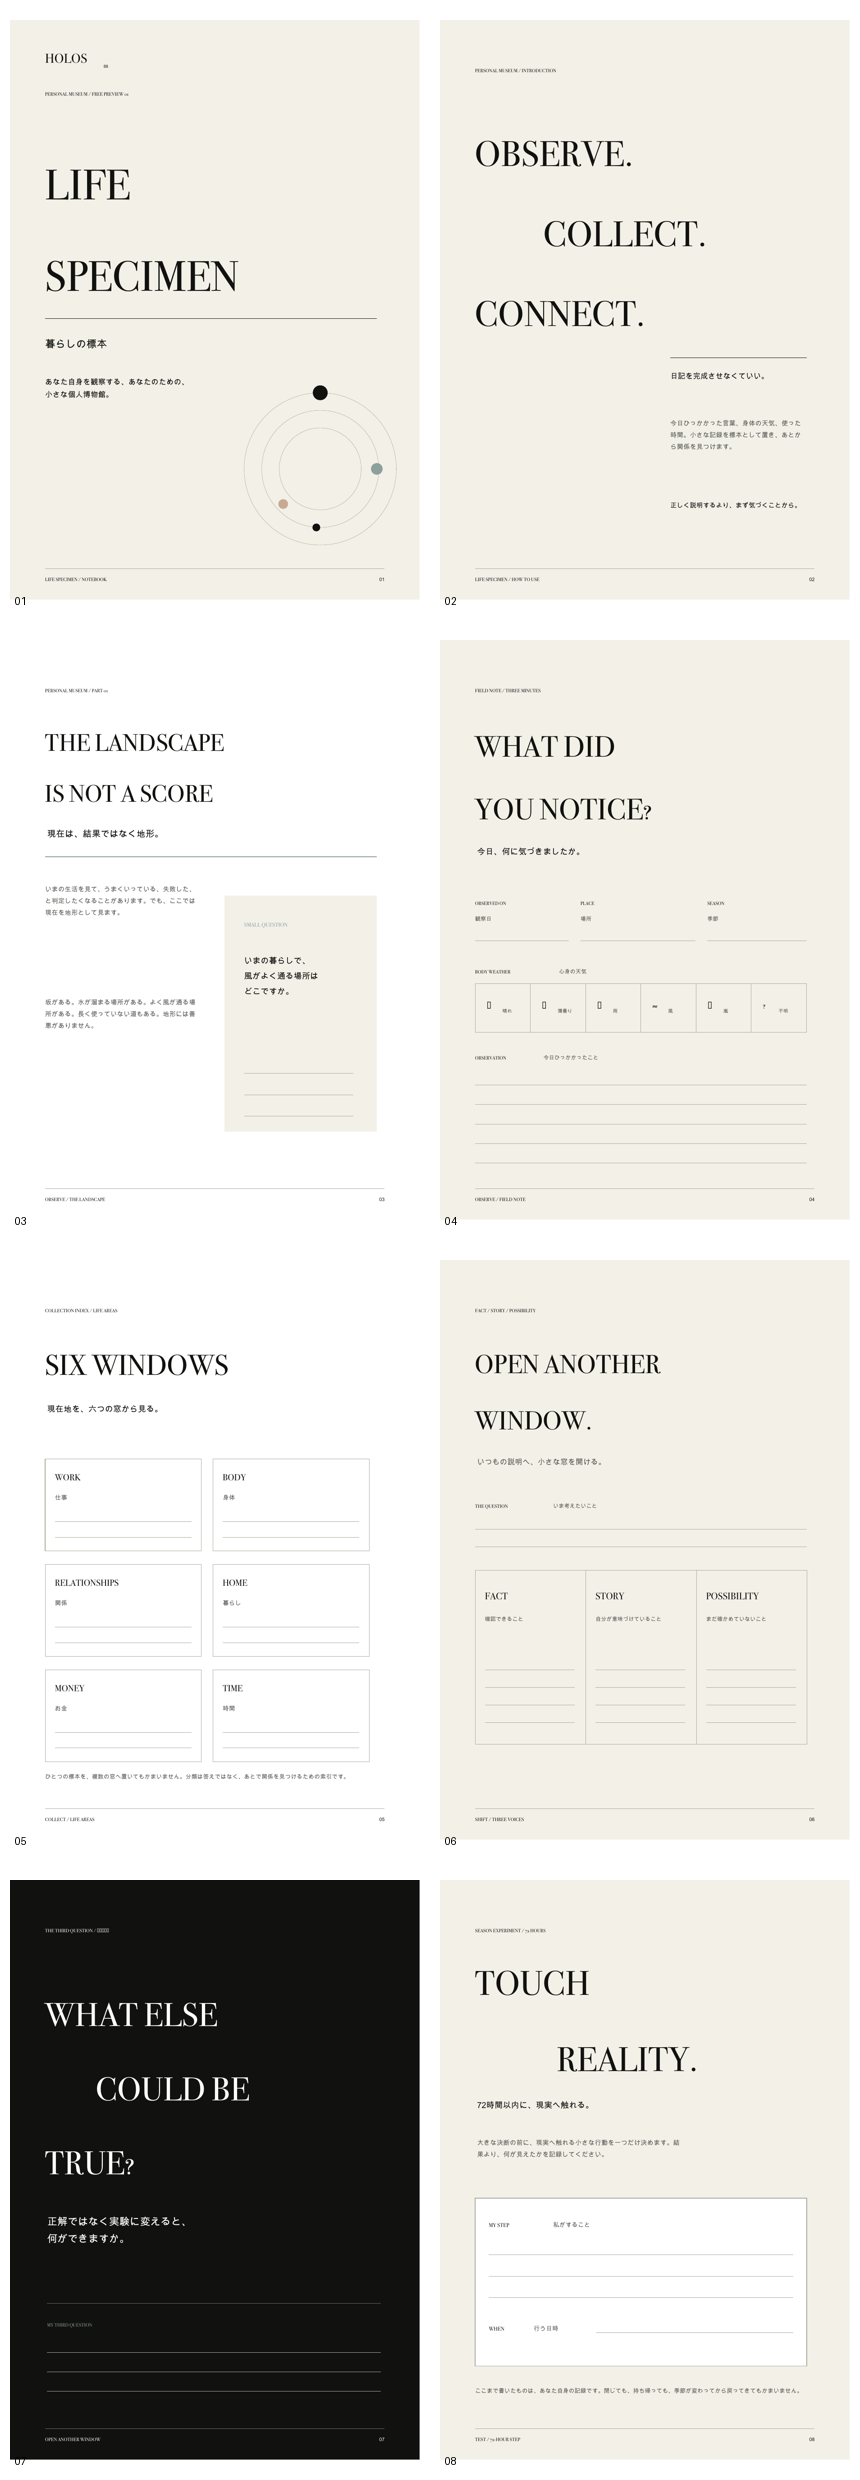
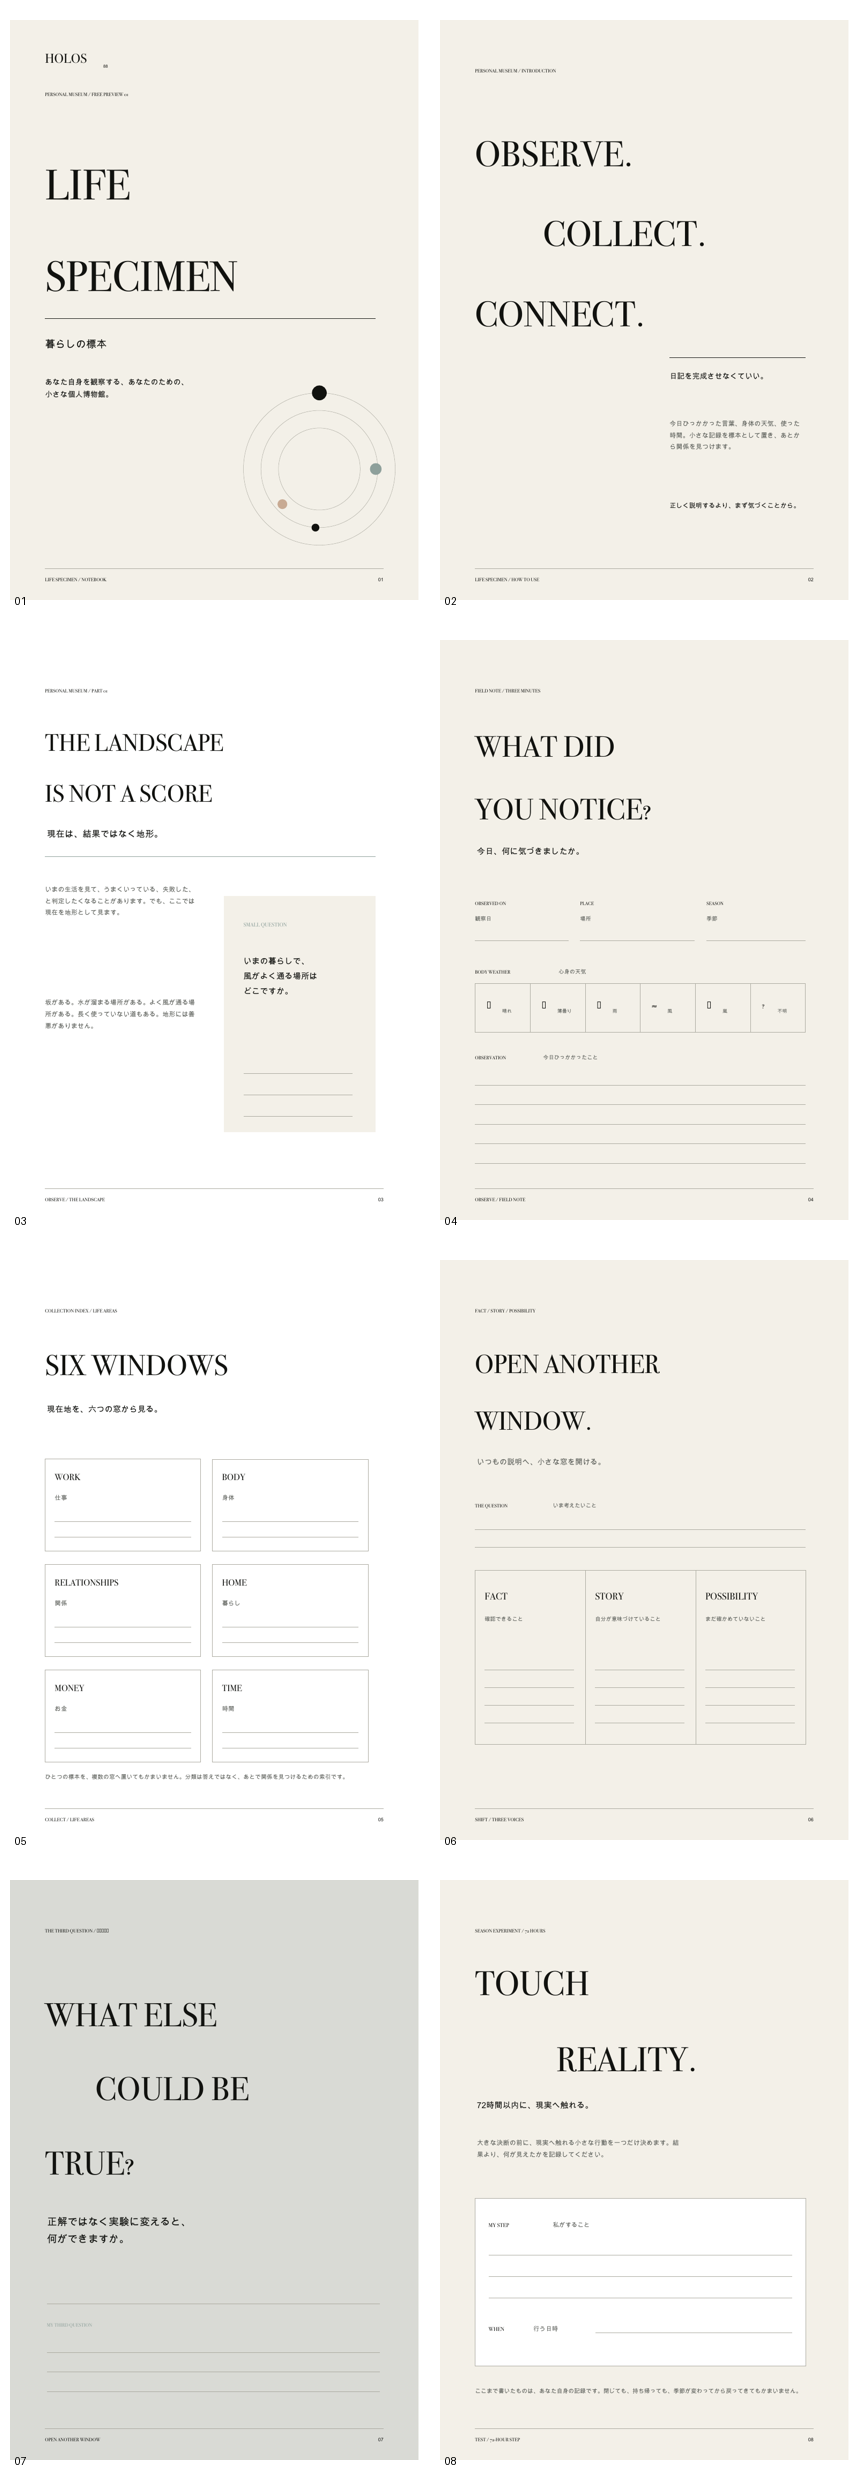
Resize LIFE SPECIMEN notebook to B5

diff --git a/business/life-school/starter-kit/notebook-from-app-design-01.md b/business/life-school/starter-kit/notebook-from-app-design-01.md
@@ -57,13 +57,15 @@ FACT / STORY / POSSIBILITY
 
 ## ノートの物理イメージ
 
-- 判型候補：B5変形またはA5ワイド
+- 判型：B5。スケジュール帳に近い扱いやすさを優先する
 - 余白を十分に取り、書き込み面積を守る
 - PDF初版はA4印刷用と画面用を用意
 - KDP版では見開きとノドを再設計
 - モノクロでも成立し、淡いセージと土色は補助色
 - 全ページへ図版を入れない
-- 読み物、黒い章扉、標本カード、自由記入ページを交互に置く
+- 読み物、淡いグレーの章扉、標本カード、自由記入ページを交互に置く
+- 章扉も普通の鉛筆やペンで書ける明度を保つ
+- 英字見出しはさらに大胆に拡大し、裁ち落とし、位置のずれ、余白との対比で遊ぶ。細部は全体組版時に調整する
 
 ## 最初に作り直す8ページ
 
@@ -83,7 +85,7 @@ FACT / STORY / POSSIBILITY
 2026-09-24、APP TO PAPER 01として8ページの初版を制作。
 
 - 成果物：`output/pdf/life-specimen-notebook-preview-01.pdf`
-- 判型：A4／全8ページ
+- 判型：B5／全8ページ
 - 状態：初回デザインレビュー用
 - デザイン原本：LIFE SPECIMEN Web App
 - 次回確認：日本語の言い回し、実際の書き込み量、完全版への接続
